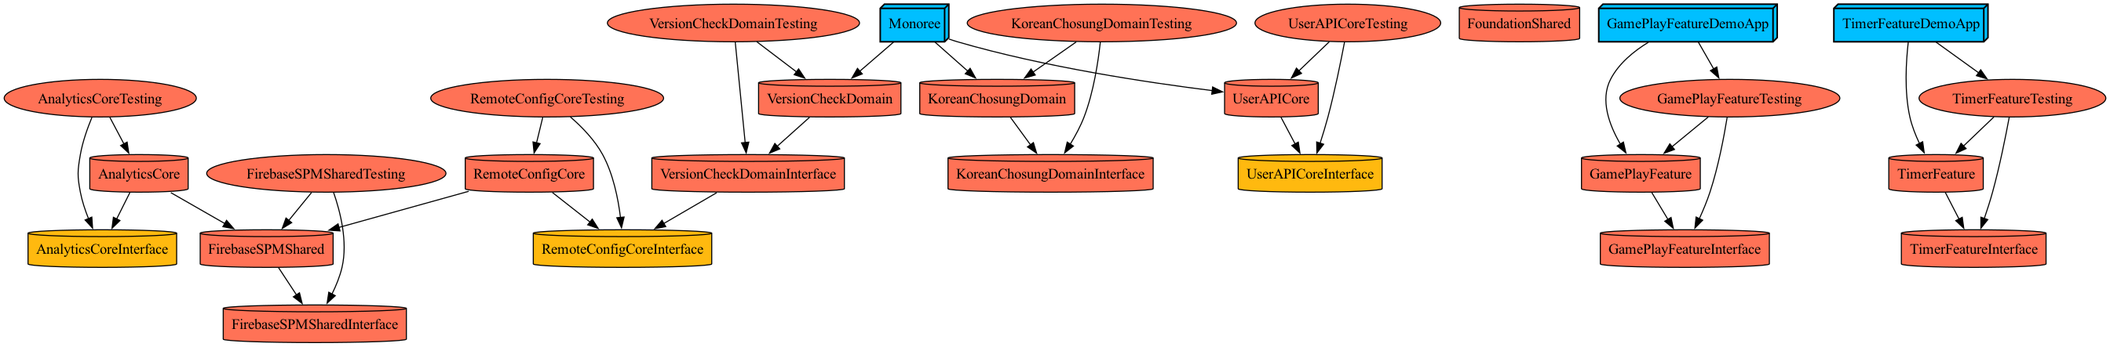
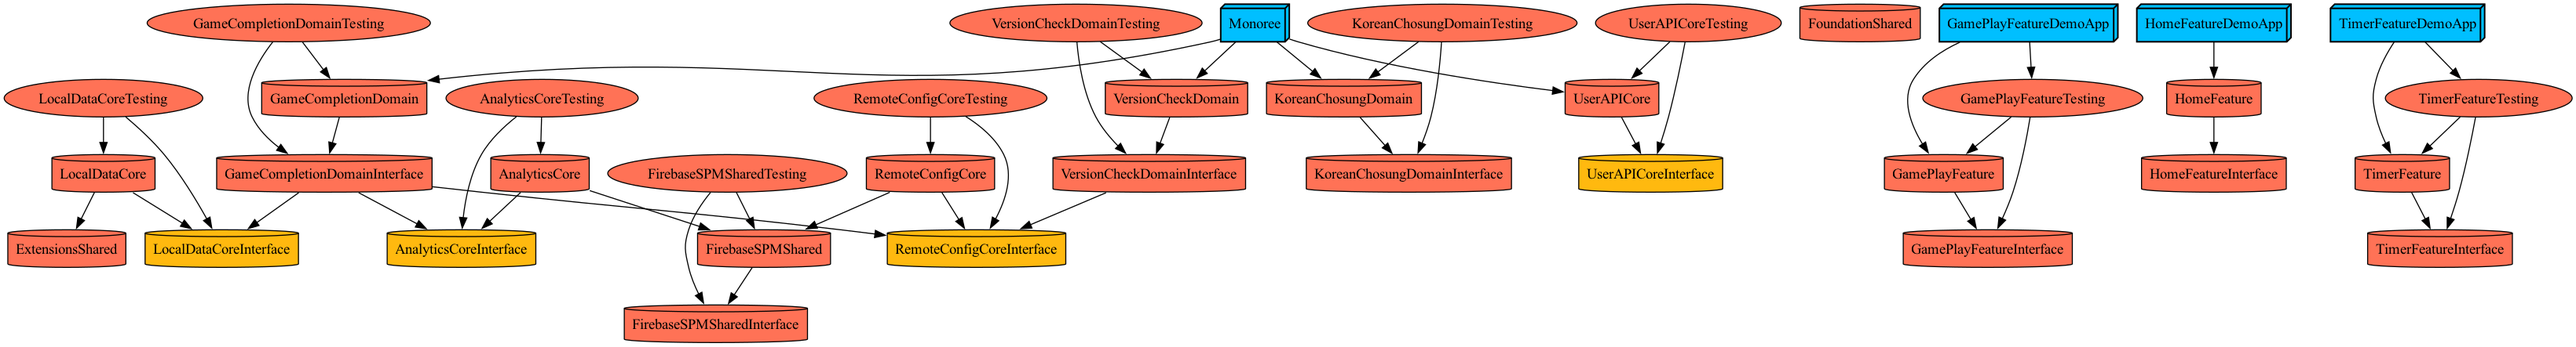
[#58] local data module 생성 (#59)
* [#58] 모듈 추가

* [#58] 단순화 된 구현

* [#58] 테스트 코드 추가

* [#58] 여러 값들 추가 중

* [#58] 게임 저장 로직 추가

* [#58] 초기값 구현

* [#58] 경우의 수 추가

* [#58] 함수 단순화

* [#58] 같은 로직을 비교하도록 변경

* [#58] 라이브러리 정리

* [#58] 미사용 파일 삭제

* [#58] 적당한 버전 선택으로 변경

diff --git a/Projects/Domain/GameCompletionDomain/Tests/GameCompletionDomainTest.swift b/Projects/Domain/GameCompletionDomain/Tests/GameCompletionDomainTest.swift
@@ -7,9 +7,12 @@ struct GameCompletionDomainTests {
     @Test("한번 호출했을때") func oneCall() async {
         // given
         let analytics = AnalyticsCoreMock()
+        let localData = GameLocalDataManagerMock()
         let remoteConfig = GameConfigManagerMock()
+
         let sut = GameCompletionUsecaseImpl(
             remoteConfig: remoteConfig,
+            localData: localData,
             analytics: analytics
         )
         
@@ -26,11 +29,13 @@ struct GameCompletionDomainTests {
         let perAd = 5
         let testCount = 20
         let analytics = AnalyticsCoreMock()
+        let localData = GameLocalDataManagerMock()
         let remoteConfig = GameConfigManagerMock()
         remoteConfig.setup(.normal(perAd: perAd))
 
         let sut = GameCompletionUsecaseImpl(
             remoteConfig: remoteConfig,
+            localData: localData,
             analytics: analytics
         )
 
@@ -58,11 +63,13 @@ struct GameCompletionDomainTests {
         // given
         let perAd = 0
         let analytics = AnalyticsCoreMock()
+        let localData = GameLocalDataManagerMock()
         let remoteConfig = GameConfigManagerMock()
         remoteConfig.setup(.normal(perAd: perAd))
 
         let sut = GameCompletionUsecaseImpl(
             remoteConfig: remoteConfig,
+            localData: localData,
             analytics: analytics
         )
 
@@ -83,11 +90,13 @@ struct GameCompletionDomainTests {
         // given
         let perAd = -20
         let analytics = AnalyticsCoreMock()
+        let localData = GameLocalDataManagerMock()
         let remoteConfig = GameConfigManagerMock()
         remoteConfig.setup(.normal(perAd: perAd))
 
         let sut = GameCompletionUsecaseImpl(
             remoteConfig: remoteConfig,
+            localData: localData,
             analytics: analytics
         )
 
@@ -107,11 +116,13 @@ struct GameCompletionDomainTests {
     @Test("remoteConfig가 맛이간 경우, 광고를 보여주지 않는다.") func deadFirebaseAlwaysNone() async {
         // given
         let analytics = AnalyticsCoreMock()
+        let localData = GameLocalDataManagerMock()
         let remoteConfig = GameConfigManagerMock()
         remoteConfig.setup(.error)
 
         let sut = GameCompletionUsecaseImpl(
             remoteConfig: remoteConfig,
+            localData: localData,
             analytics: analytics
         )
 
@@ -126,5 +137,26 @@ struct GameCompletionDomainTests {
 
         // then
         #expect(types.allSatisfy { $0 != .showFullScreenAd })
+    }
+    
+    @Test("오늘 이미 5번 플레이했을때, 한번더 플레이한다면") func beforePlay5Times() async {
+        // given
+        let analytics = AnalyticsCoreMock()
+        let localData = GameLocalDataManagerMock()
+        let remoteConfig = GameConfigManagerMock()
+        localData.setup(5)
+        remoteConfig.setup(.normal(perAd: 3))
+
+        let sut = GameCompletionUsecaseImpl(
+            remoteConfig: remoteConfig,
+            localData: localData,
+            analytics: analytics
+        )
+
+        // when
+        let result = await sut.completeGame(GameCompletionInputImpl(score: 5, gameName: "안녕"))
+
+        // then
+        #expect(result == .showFullScreenAd, "5번 했었고, 6번째가 되니까")
     }
 }

diff --git a/Projects/Core/LocalDataCore/Tests/LocalDataCoreTests.swift b/Projects/Core/LocalDataCore/Tests/LocalDataCoreTests.swift
@@ -1,0 +1,55 @@
+import Testing
+import Foundation
+@testable import LocalDataCore
+
+struct LocalDataCoreTests {
+    
+    private let suiteName = "com.monoree.test"
+    private var testDefaults: UserDefaults {
+        UserDefaults(suiteName: suiteName)!
+    }
+    
+    init() {
+        testDefaults.removePersistentDomain(forName: suiteName)
+    }
+    
+    @Test("광고키 초기값, 값변경, 값변경 확인") func firstSecondThirdSaveAndCall() async {
+        // given
+        let sut = LocalDataUsecaseImpl(userDefault: testDefaults)
+        
+        let saveData1 = "Test Data Save1"
+        let saveData2 = "Test Data Save2"
+        
+        // when
+        let result01 = await sut.getIDFA()
+        await sut.setIDFA(saveData1)
+        let result02 = await sut.getIDFA()
+        await sut.setIDFA(saveData2)
+        let result03 = await sut.getIDFA()
+        
+        // then
+        #expect(result01 == nil, "최초 호출시, 내부 데이터는 비어있어야 합니다.")
+        #expect(result02 == saveData1, "\(result02 ?? "") is not equal")
+        #expect(result03 == saveData2, "\(result03 ?? "") is not equal")
+    }
+    
+    @Test("게임플레이 데이트 로그 값 확인") func gamePlayDateCheck() async {
+        // given
+        let sut = LocalDataUsecaseImpl(userDefault: testDefaults)
+        
+        // when
+        let dates = await sut.getPlayDates()
+        await sut.putPlayDate()
+        let changeDates = await sut.getPlayDates()
+        let todayDates = await sut.getPlayDatesToday()
+        await sut.putPlayDate()
+        await sut.putPlayDate()
+        let todayDates2 = await sut.getPlayDatesToday()
+        
+        // then
+        #expect(dates.count == 0, "최초 호출시 목록이 비어져 있어야 합니다.")
+        #expect(changeDates.count == 1, "목록이 추가되어야 합니다.")
+        #expect(todayDates.count == 1, "오늘이 추가되어야 합니다.")
+        #expect(todayDates2.count == 3, "\(todayDates2.count) 오늘이 추가되어야 합니다.")
+    }
+}

diff --git a/Projects/Domain/GameCompletionDomain/Sources/GameCompletionUsecaseImpl.swift b/Projects/Domain/GameCompletionDomain/Sources/GameCompletionUsecaseImpl.swift
@@ -2,26 +2,35 @@ import Foundation
 import GameCompletionDomainInterface
 import RemoteConfigCoreInterface
 import AnalyticsCoreInterface
+import LocalDataCoreInterface
 
 final class GameCompletionUsecaseImpl: GameCompletionUseCase {
-    private let analytics: AnalyticsCoreInterface.AnalyticsProtocol
-    private let remoteConfig: RemoteConfigCoreInterface.GameConfigManager
+    private let analytics: AnalyticsProtocol
+    private let remoteConfig: GameConfigManager
+    private let localData: GameLocalDataManager
     
     // TODO: MVP에선 LocalData에 저장하도록 구현
     private var playCount: Int = 0
     
     init(
-        remoteConfig: any RemoteConfigCoreInterface.GameConfigManager,
-        analytics: AnalyticsCoreInterface.AnalyticsProtocol
+        remoteConfig: any GameConfigManager,
+        localData: any GameLocalDataManager,
+        analytics: any AnalyticsProtocol
     ) {
         self.analytics = analytics
+        self.localData = localData
         self.remoteConfig = remoteConfig
+        
+        Task { [weak self] in
+            self?.playCount = await localData.getPlayDatesToday().count
+        }
     }
     
     func completeGame(
         _ input: any GameCompletionInput
     ) async -> GameCompletionResultType {
         playCount += 1
+        await localData.putPlayDate()
         sendAnalytics(score: input.score, gameName: input.gameName)
         
         do {

diff --git a/Projects/Core/LocalDataCore/Sources/LocalDataUsecaseImpl.swift b/Projects/Core/LocalDataCore/Sources/LocalDataUsecaseImpl.swift
@@ -1,0 +1,51 @@
+import Foundation
+import LocalDataCoreInterface
+
+final actor LocalDataUsecaseImpl: LocalDataUsecase {
+    private let userDefault: UserDefaults
+    
+    init(userDefault: UserDefaults = .standard) {
+        self.userDefault = userDefault
+    }
+    
+    internal func getLocalData<T: Decodable>(
+        _ type: T.Type,
+        key: LocalDataKey
+    ) throws -> T {
+        guard let data = userDefault.data(forKey: key.rawValue) else {
+            throw LocalDataError.unknown
+        }
+        
+        return try JSONDecoder().decode(T.self, from: data)
+    }
+    
+    internal func getLocalDataOptional<T: Decodable>(
+        _ type: T.Type,
+        key: LocalDataKey
+    ) -> T? {
+        do {
+            return try getLocalData(type, key: key)
+        } catch {
+            return nil
+        }
+    }
+    
+    internal func setLocalData<T: Encodable>(
+        _ value: T,
+        key: LocalDataKey
+    ) {
+        guard let data = try? JSONEncoder().encode(value) else { return }
+        
+        userDefault.set(data, forKey: key.rawValue)
+    }
+}
+
+extension LocalDataUsecaseImpl: ConfigLocalDataManager {
+    func getIDFA() async -> String? {
+        getLocalDataOptional(String.self, key: .idfa)
+    }
+    
+    func setIDFA(_ idfa: String) async {
+        setLocalData(idfa, key: .idfa)
+    }
+}

diff --git a/Projects/Core/LocalDataCore/Project.swift b/Projects/Core/LocalDataCore/Project.swift
@@ -1,0 +1,33 @@
+import ProjectDescription
+import ProjectDescriptionHelpers
+
+let project = Project.module(
+    name: CoreModule.LocalDataCore.name,
+    settings: .Module.default,
+    targets: [
+        .interface(
+            core: .LocalDataCore,
+            dependencies: []
+        ),
+        .implementation(
+            core: .LocalDataCore,
+            dependencies: [
+                .shared(target: .ExtensionsShared),
+                .core(target: .LocalDataCore, type: .interface),
+            ]
+        ),
+        .testing(
+            core: .LocalDataCore,
+            dependencies: [
+                .core(target: .LocalDataCore, type: .interface),
+            ]
+        ),
+        .tests(
+            core: .LocalDataCore,
+            dependencies: [
+                .core(target: .LocalDataCore, type: .implementation),
+                .core(target: .LocalDataCore, type: .testing),
+            ]
+        ),
+    ]
+)

diff --git a/Projects/Domain/GameCompletionDomain/Testing/GameLocalDataManagerMock.swift b/Projects/Domain/GameCompletionDomain/Testing/GameLocalDataManagerMock.swift
@@ -1,0 +1,27 @@
+import Foundation
+import GameCompletionDomainInterface
+import LocalDataCoreInterface
+import ExtensionsShared
+import SwifterSwift
+
+final class GameLocalDataManagerMock: GameLocalDataManager {
+    var dates: [Date] = []
+    
+    func setup(_ beforeCall: Int) {
+        for _ in 0..<beforeCall {
+            dates.append(Date())
+        }
+    }
+    
+    func getPlayDates() async -> [Date] {
+        return dates
+    }
+    
+    func getPlayDatesToday() async -> [Date] {
+        return dates.filter { $0.isInToday }
+    }
+    
+    func putPlayDate() async {
+        dates.append(Date())
+    }
+}

diff --git a/Projects/Core/LocalDataCore/Sources/GameLocalDataManagerImpl.swift b/Projects/Core/LocalDataCore/Sources/GameLocalDataManagerImpl.swift
@@ -1,0 +1,23 @@
+import Foundation
+import LocalDataCoreInterface
+import ExtensionsShared
+import SwifterSwift
+
+extension LocalDataUsecaseImpl: GameLocalDataManager {
+    func getPlayDates() async -> [Date] {
+        return getLocalDataOptional([Date].self, key: .gamePlayList) ?? []
+    }
+    
+    func getPlayDatesToday() async -> [Date] {
+        await getPlayDates().filter { item in
+            return item.isInToday
+        }
+    }
+    
+    func putPlayDate() async {
+        var list = await getPlayDates()
+        list.append(Date())
+        
+        setLocalData(list, key: .gamePlayList)
+    }
+}

diff --git a/Projects/Domain/GameCompletionDomain/Interface/GameCompletionUseCase.swift b/Projects/Domain/GameCompletionDomain/Interface/GameCompletionUseCase.swift
@@ -1,9 +1,14 @@
 import Foundation
 import RemoteConfigCoreInterface
 import AnalyticsCoreInterface
+import LocalDataCoreInterface
 
 public protocol GameCompletionUseCase {
-    init(remoteConfig: GameConfigManager, analytics: AnalyticsProtocol)
+    init(
+        remoteConfig: GameConfigManager,
+        localData: GameLocalDataManager,
+        analytics: AnalyticsProtocol
+    )
     
     func completeGame(
         _ input: any GameCompletionInput

diff --git a/Projects/Shared/ExtensionsShared/Project.swift b/Projects/Shared/ExtensionsShared/Project.swift
@@ -1,0 +1,15 @@
+import ProjectDescription
+import ProjectDescriptionHelpers
+
+let project = Project.module(
+    name: SharedModule.ExtensionsShared.name,
+    settings: .Module.default,
+    targets: [
+        .implementation(
+            shared: .ExtensionsShared,
+            dependencies: [
+                .SPM.swifterSwift,
+            ]
+        )
+    ]
+)

diff --git a/Projects/Domain/GameCompletionDomain/Project.swift b/Projects/Domain/GameCompletionDomain/Project.swift
@@ -9,6 +9,7 @@ let project = Project.module(
             domain: .GameCompletionDomain,
             dependencies: [
                 .core(target: .RemoteConfigCore, type: .interface),
+                .core(target: .LocalDataCore, type: .interface),
                 .core(target: .AnalyticsCore, type: .interface),
             ]
         ),

diff --git a/Tuist/ProjectDescriptionHelpers/TargetDependency/TargetDependency+SPM+Template.swift b/Tuist/ProjectDescriptionHelpers/TargetDependency/TargetDependency+SPM+Template.swift
@@ -42,5 +42,10 @@ extension TargetDependency {
         public static let firebasePerformance: TargetDependency = .external(
             name: "FirebasePerformance"
         )
+        
+        // extension
+        public static let swifterSwift: TargetDependency = .external(
+            name: "SwifterSwift"
+        )
     }
 }

diff --git a/Tuist/Package.swift b/Tuist/Package.swift
@@ -34,5 +34,9 @@ let package = Package(
             url: "https://github.com/pointfreeco/swift-composable-architecture",
             .upToNextMinor(from: "1.18.0")
         ),
+        .package(
+            url: "https://github.com/SwifterSwift/SwifterSwift",
+            .upToNextMajor(from: "8.0.0")
+        ),
     ]
 )
